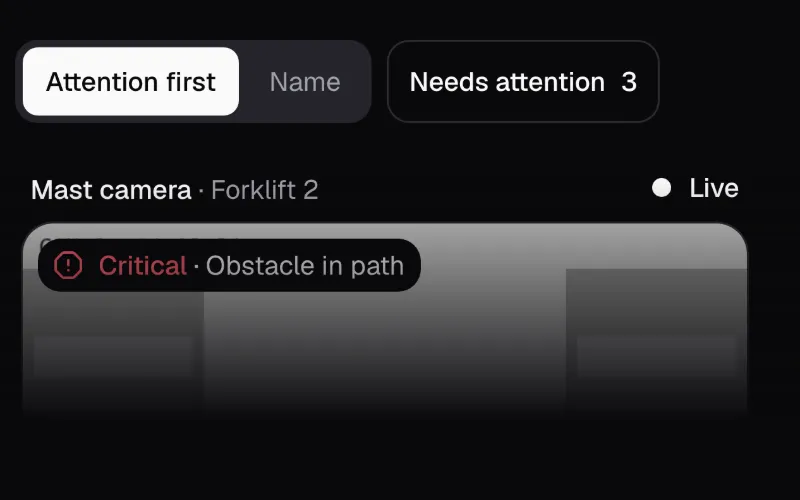
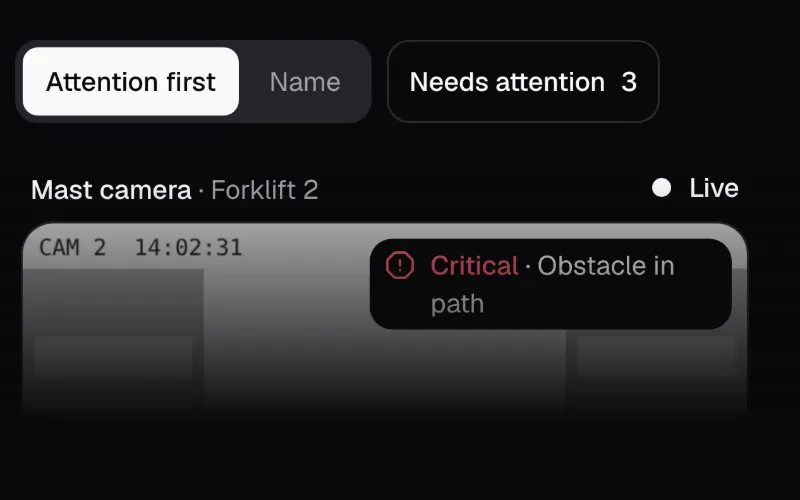
fix(camera-wall): alarm marker in the picture's top-right corner
The product owner's review: on the picture's top-left the marker covered
the clock a camera burns into its frame. It now sits top-right, kept to
the picture's right half (a long title wraps instead of reaching the
clock), where camera-feed draws nothing (Paused is top-left, the controls
along the bottom, Stalled and Connecting in the middle). The large view
already writes the alarm beside All cameras, off the picture. Overview
note, a test for the position, thumbnails.

camera-wall is unreleased (first release 0.29.0), so its version stays
0.29.0 and its lock entry is rewritten.

Claude-Session: https://claude.ai/code/session_01UjpnacZoWQW5a3YFwQexEH

Changed region(s): [[0.0312, 0.45, 0.9375, 0.66]]

diff --git a/registry/syncrobotic/ui/camera-wall.tsx b/registry/syncrobotic/ui/camera-wall.tsx
@@ -599,12 +599,23 @@ function tileButton(root: HTMLElement, id: string) {
   return null
 }
 
-function AlarmMarker({ alarm, labels: l, className }: { alarm: NonNullable<CameraWallCamera["alarm"]>; labels: CameraWallLabels; className?: string }) {
+function AlarmMarker({
+  alarm,
+  labels: l,
+  wrap = false,
+  className,
+}: {
+  alarm: NonNullable<CameraWallCamera["alarm"]>
+  labels: CameraWallLabels
+  /** Wrap a long title onto more lines instead of cutting it (the marker on a tile's picture keeps to half its width). */
+  wrap?: boolean
+  className?: string
+}) {
   const Icon = alarmIcon[alarm.priority]
   return (
-    <p data-slot="camera-wall-alarm" data-priority={alarm.priority} className={cn("flex min-w-0 items-center gap-2 text-sm", className)}>
-      <Icon aria-hidden="true" className={cn("size-4 shrink-0", alarmText[alarm.priority])} />
-      <span className="truncate">
+    <p data-slot="camera-wall-alarm" data-priority={alarm.priority} className={cn("flex min-w-0 gap-2 text-sm", wrap ? "items-start" : "items-center", className)}>
+      <Icon aria-hidden="true" className={cn("size-4 shrink-0", wrap && "mt-0.5", alarmText[alarm.priority])} />
+      <span className={wrap ? "min-w-0 break-words" : "truncate"}>
         <span className={cn("font-medium", alarmText[alarm.priority])}>{l[alarm.priority]}</span> · {alarm.title}
       </span>
     </p>
@@ -714,8 +725,10 @@ function Tile({
             </div>
           )}
           {camera.alarm && (
-            <div className="dark pointer-events-none absolute inset-x-2 top-2 flex text-foreground">
-              <AlarmMarker alarm={camera.alarm} labels={l} className="rounded-sm bg-background px-2 py-1" />
+            // Top-right, in the right half: a camera burns its name and clock into the top-left, and camera-feed draws nothing
+            // in this corner (Paused sits top-left, the controls along the bottom, Stalled and Connecting in the middle).
+            <div className="dark pointer-events-none absolute top-2 right-2 flex w-1/2 justify-end text-foreground">
+              <AlarmMarker alarm={camera.alarm} labels={l} wrap className="rounded-sm bg-background px-2 py-1" />
             </div>
           )}
         </div>

diff --git a/site/overview.ts b/site/overview.ts
@@ -128,7 +128,7 @@ export const overviews: Record<string, Overview> = {
       "Layout from the container's width, not the screen's: columns by count (1, 2×2, 3×3, 4×4) and by width (tiles at least 240 px), a page of cols × cols; under 560 px a list of tiles, and a focused camera takes the whole width. Full screen is the focused feed's own button (F).",
       "Each tile is a button in one roving Tab stop (arrows by tile and by row, Home, End, Page Up and Down), named with its camera, robot, state and alarm. Enter opens it large and moves focus to the feed; Esc comes back to the same tile, on its page.",
       "State changes are announced in one polite status, batched, at most every `announceEveryMs` (5 s): a camera that stalls, goes offline or comes back, each camera once in its latest state. Connecting to Live is not news.",
-      "Status is camera-feed's shape and word on each tile; the alarm marker is the priority's shape and word on the picture (octagon critical, triangle high, diamond low), never a tinted tile.",
+      "Status is camera-feed's shape and word on each tile; the alarm marker is the priority's shape and word in the picture's top-right corner, clear of the camera's burnt-in clock and of what camera-feed draws (octagon critical, triangle high, diamond low), never a tinted tile. The large view writes it beside All cameras, off the picture.",
     ],
   },
   "joint-state": {

diff --git a/tests/unit/camera-wall.test.tsx b/tests/unit/camera-wall.test.tsx
@@ -48,6 +48,9 @@ describe("CameraWall tiles", () => {
     const marker = tiles()[0]!.querySelector("[data-slot=camera-wall-alarm]")!
     expect(marker.textContent).toBe("Critical · Obstacle in path")
     expect(marker.querySelector("svg")).toBeTruthy()
+    // In the picture's top-right half, clear of the clock a camera burns into the top-left.
+    expect(marker.parentElement!.className).toMatch(/\bright-2\b.*\bw-1\/2\b.*\bjustify-end\b/)
+    expect(marker.parentElement!.className).not.toMatch(/\b(left|inset-x)-/)
     expect(tiles()[0]!.className).not.toMatch(/bg-danger|bg-warning/)
   })
 
